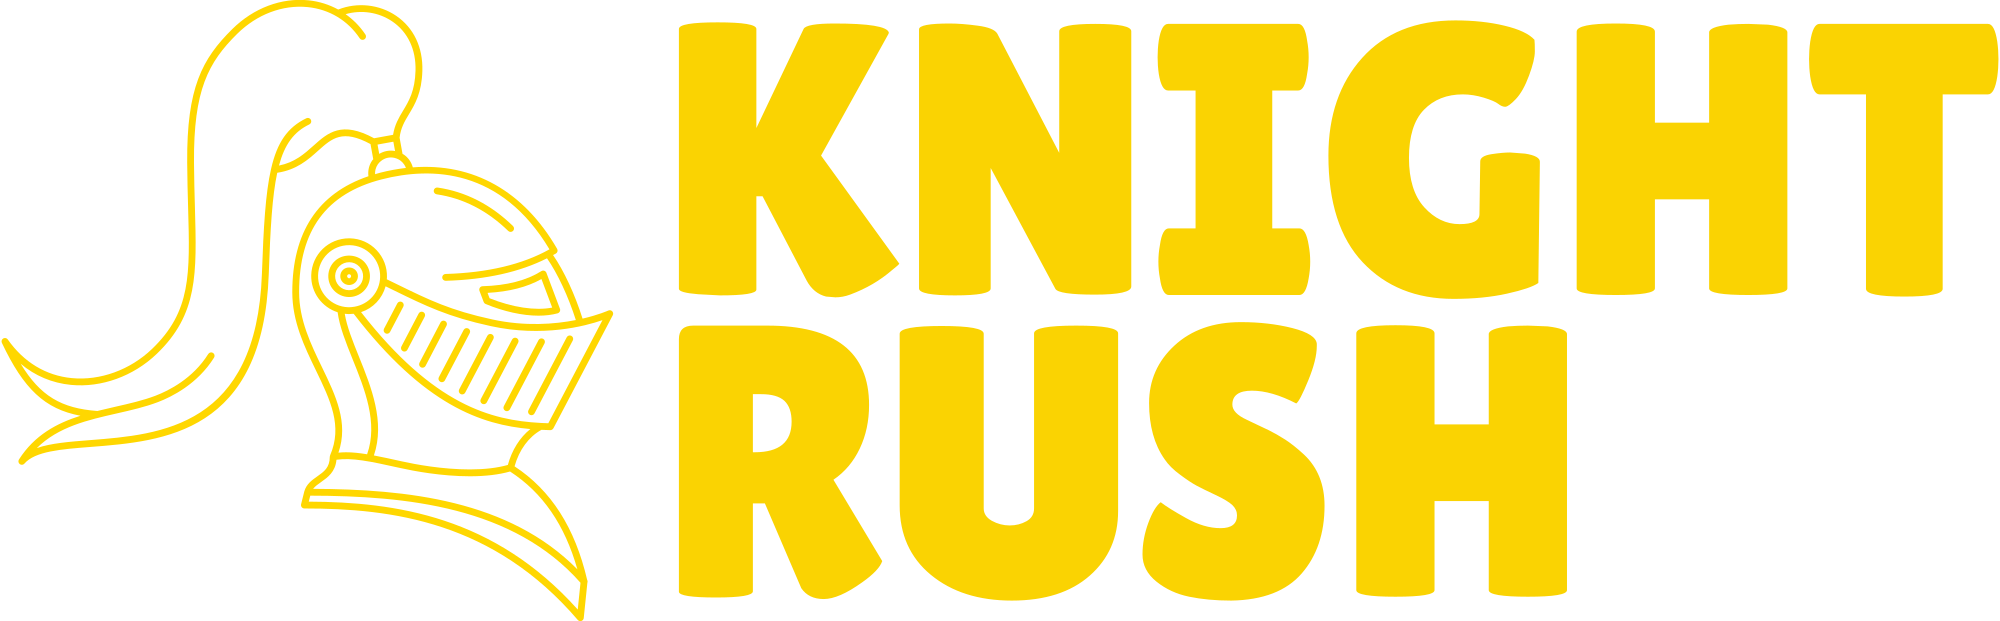
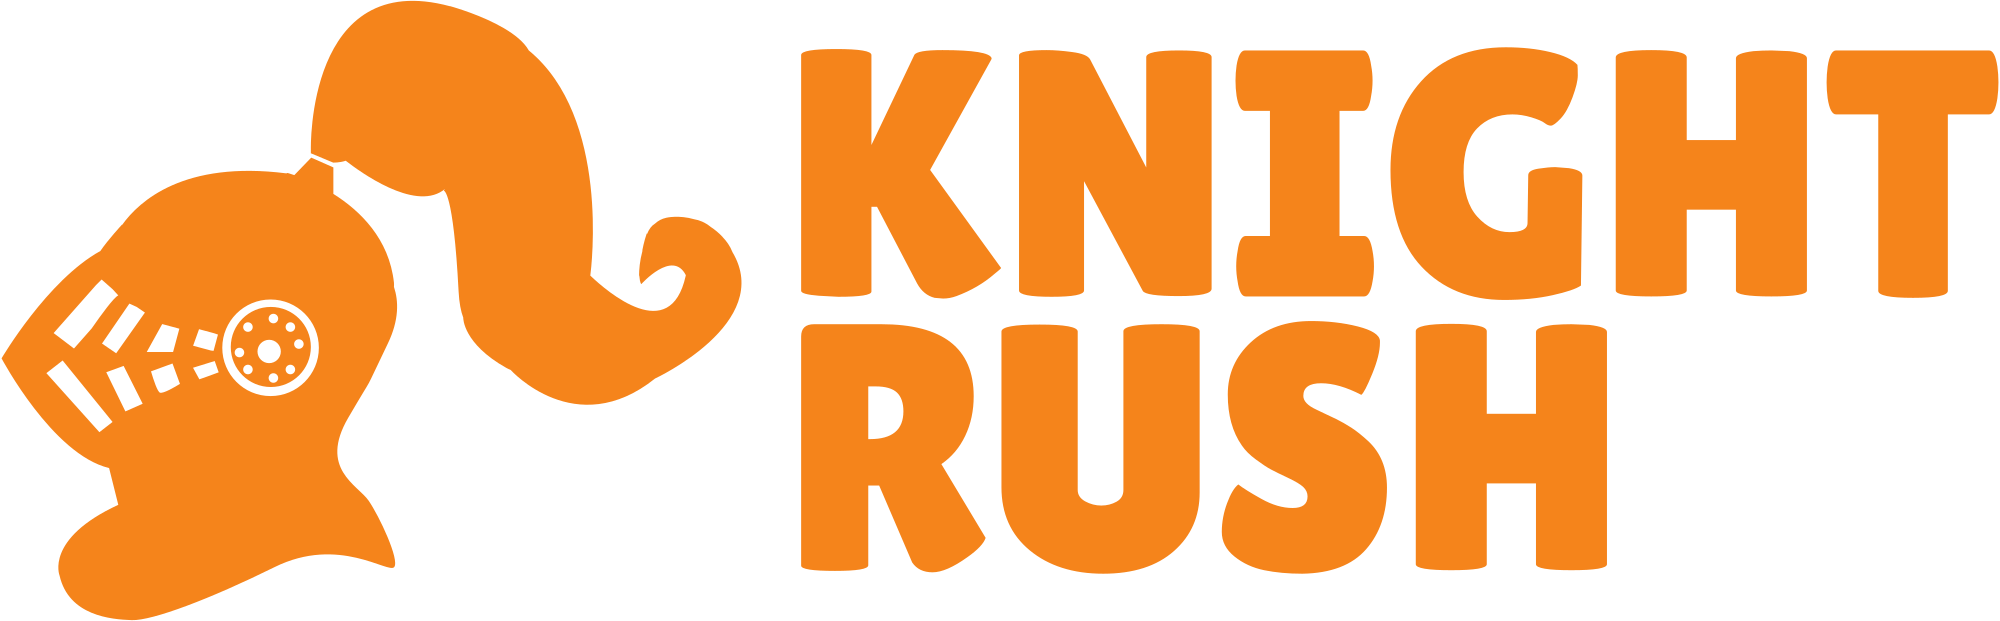
update

diff --git a/loadingUI.html b/loadingUI.html
@@ -9,7 +9,7 @@
     <link rel="stylesheet" href="styleUI.css">
 </head>
 <body class="loading">
-    <img src="./resources/knight rush 2.png" class="logo">
+    <img src="./resources/knight rush.png" class="logo">
     <section class="Container">
         <h3 class="Loader">
             Loading
